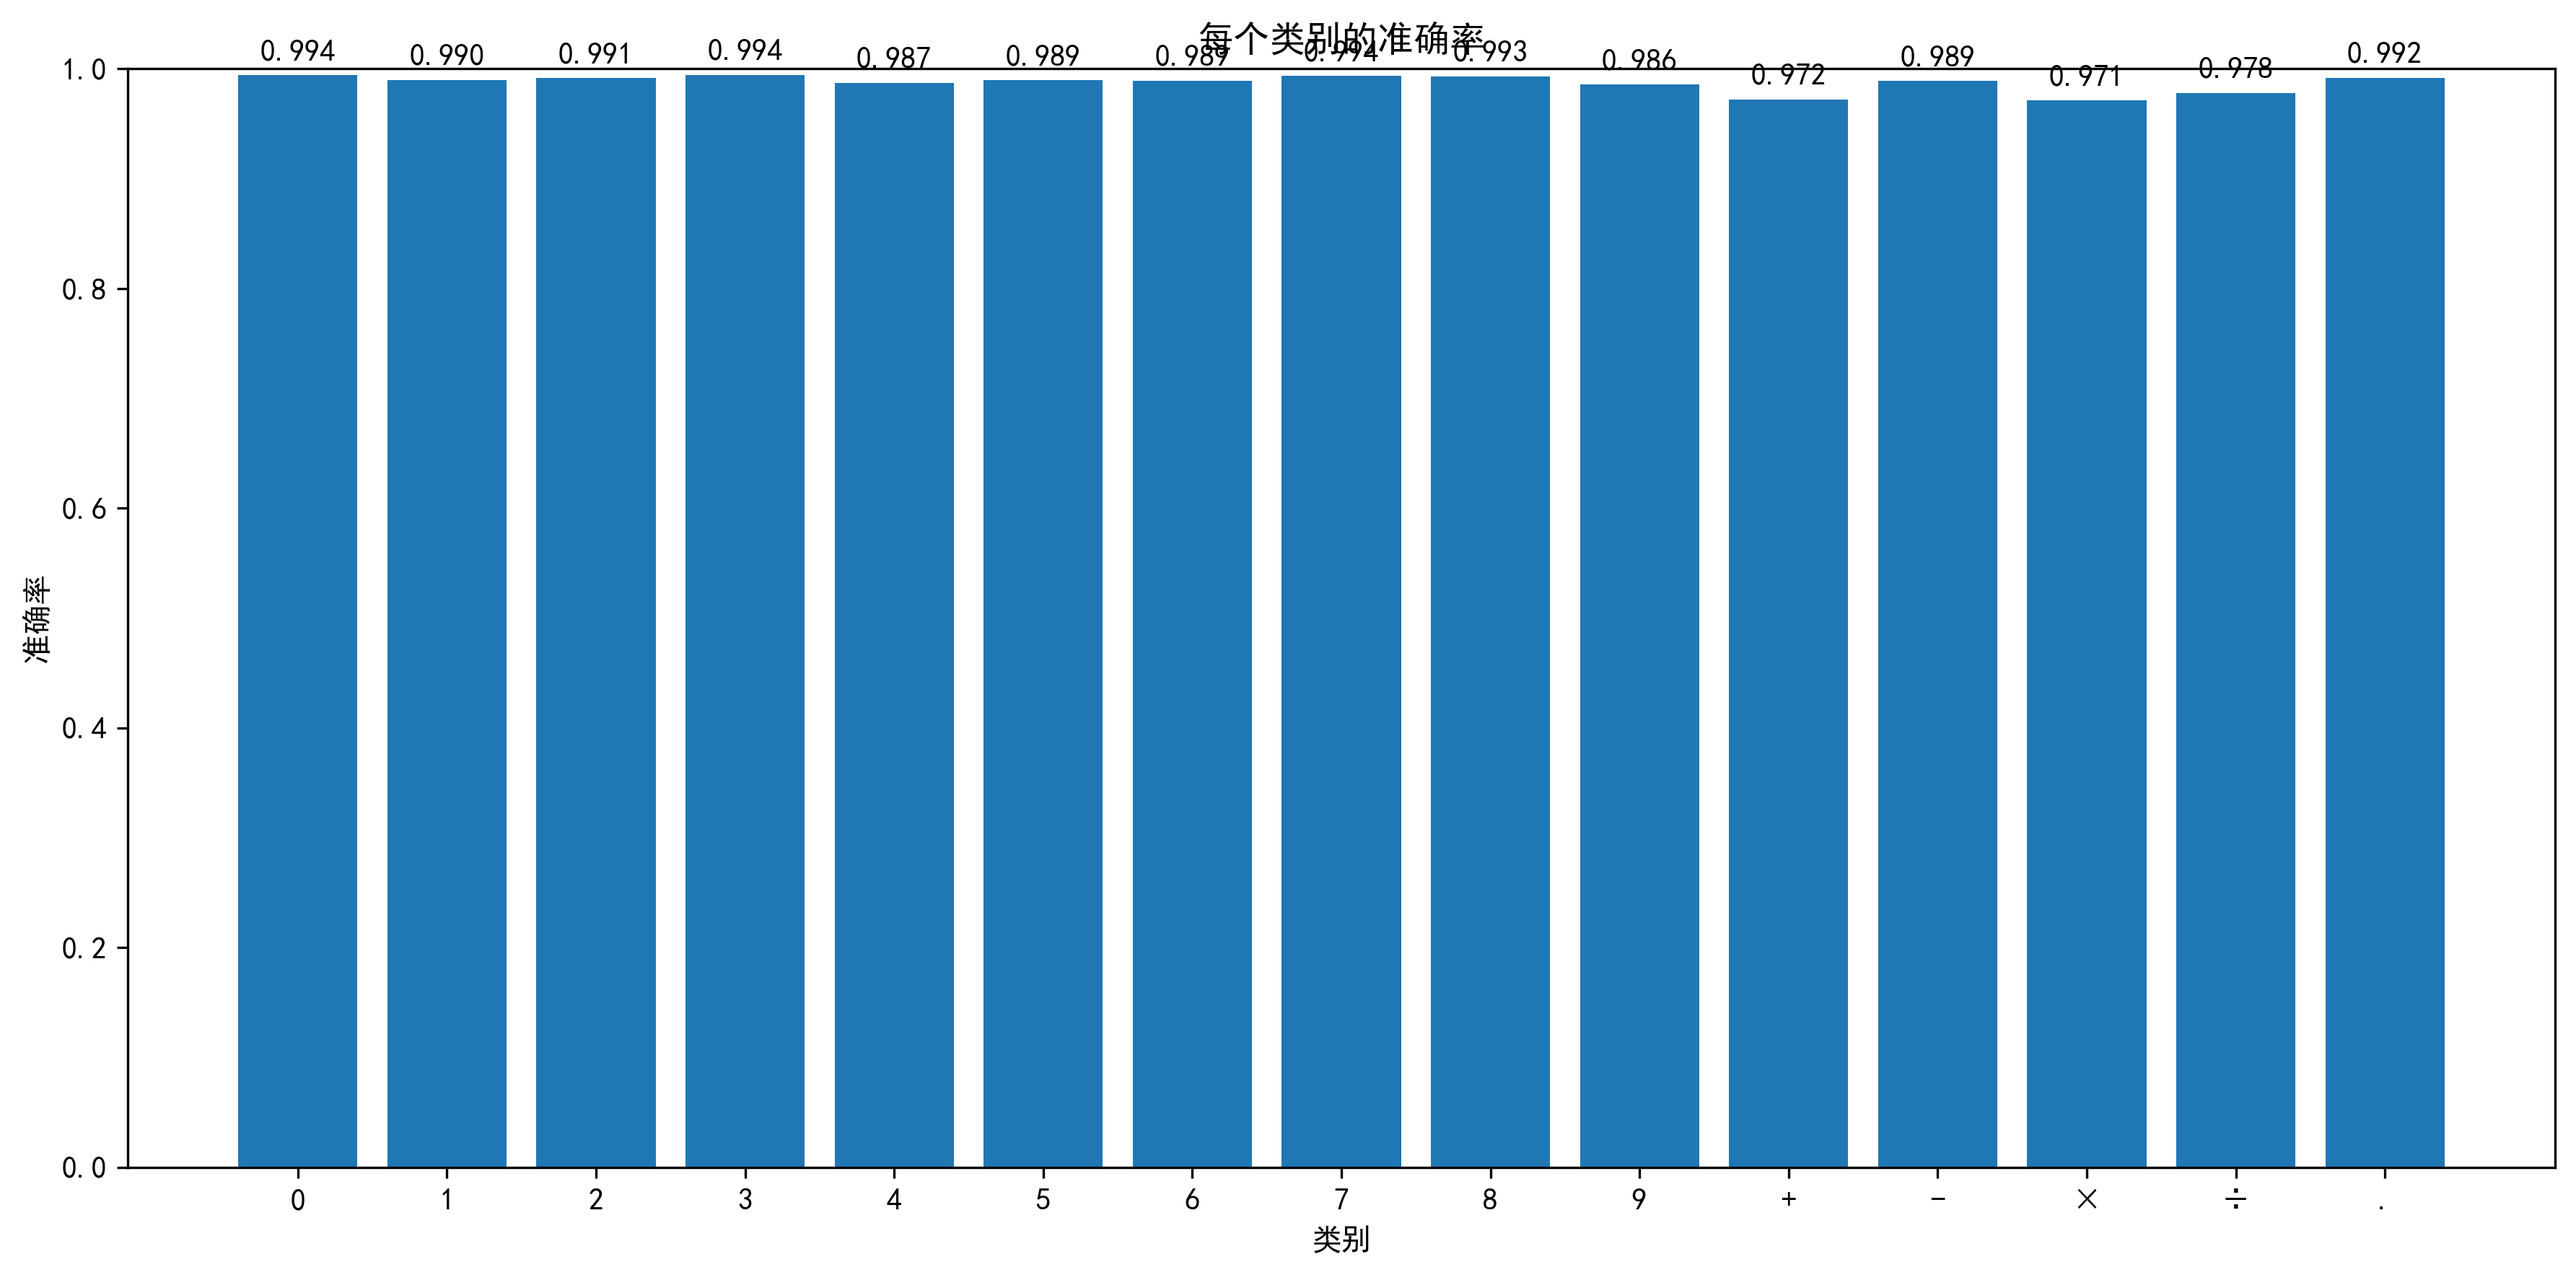
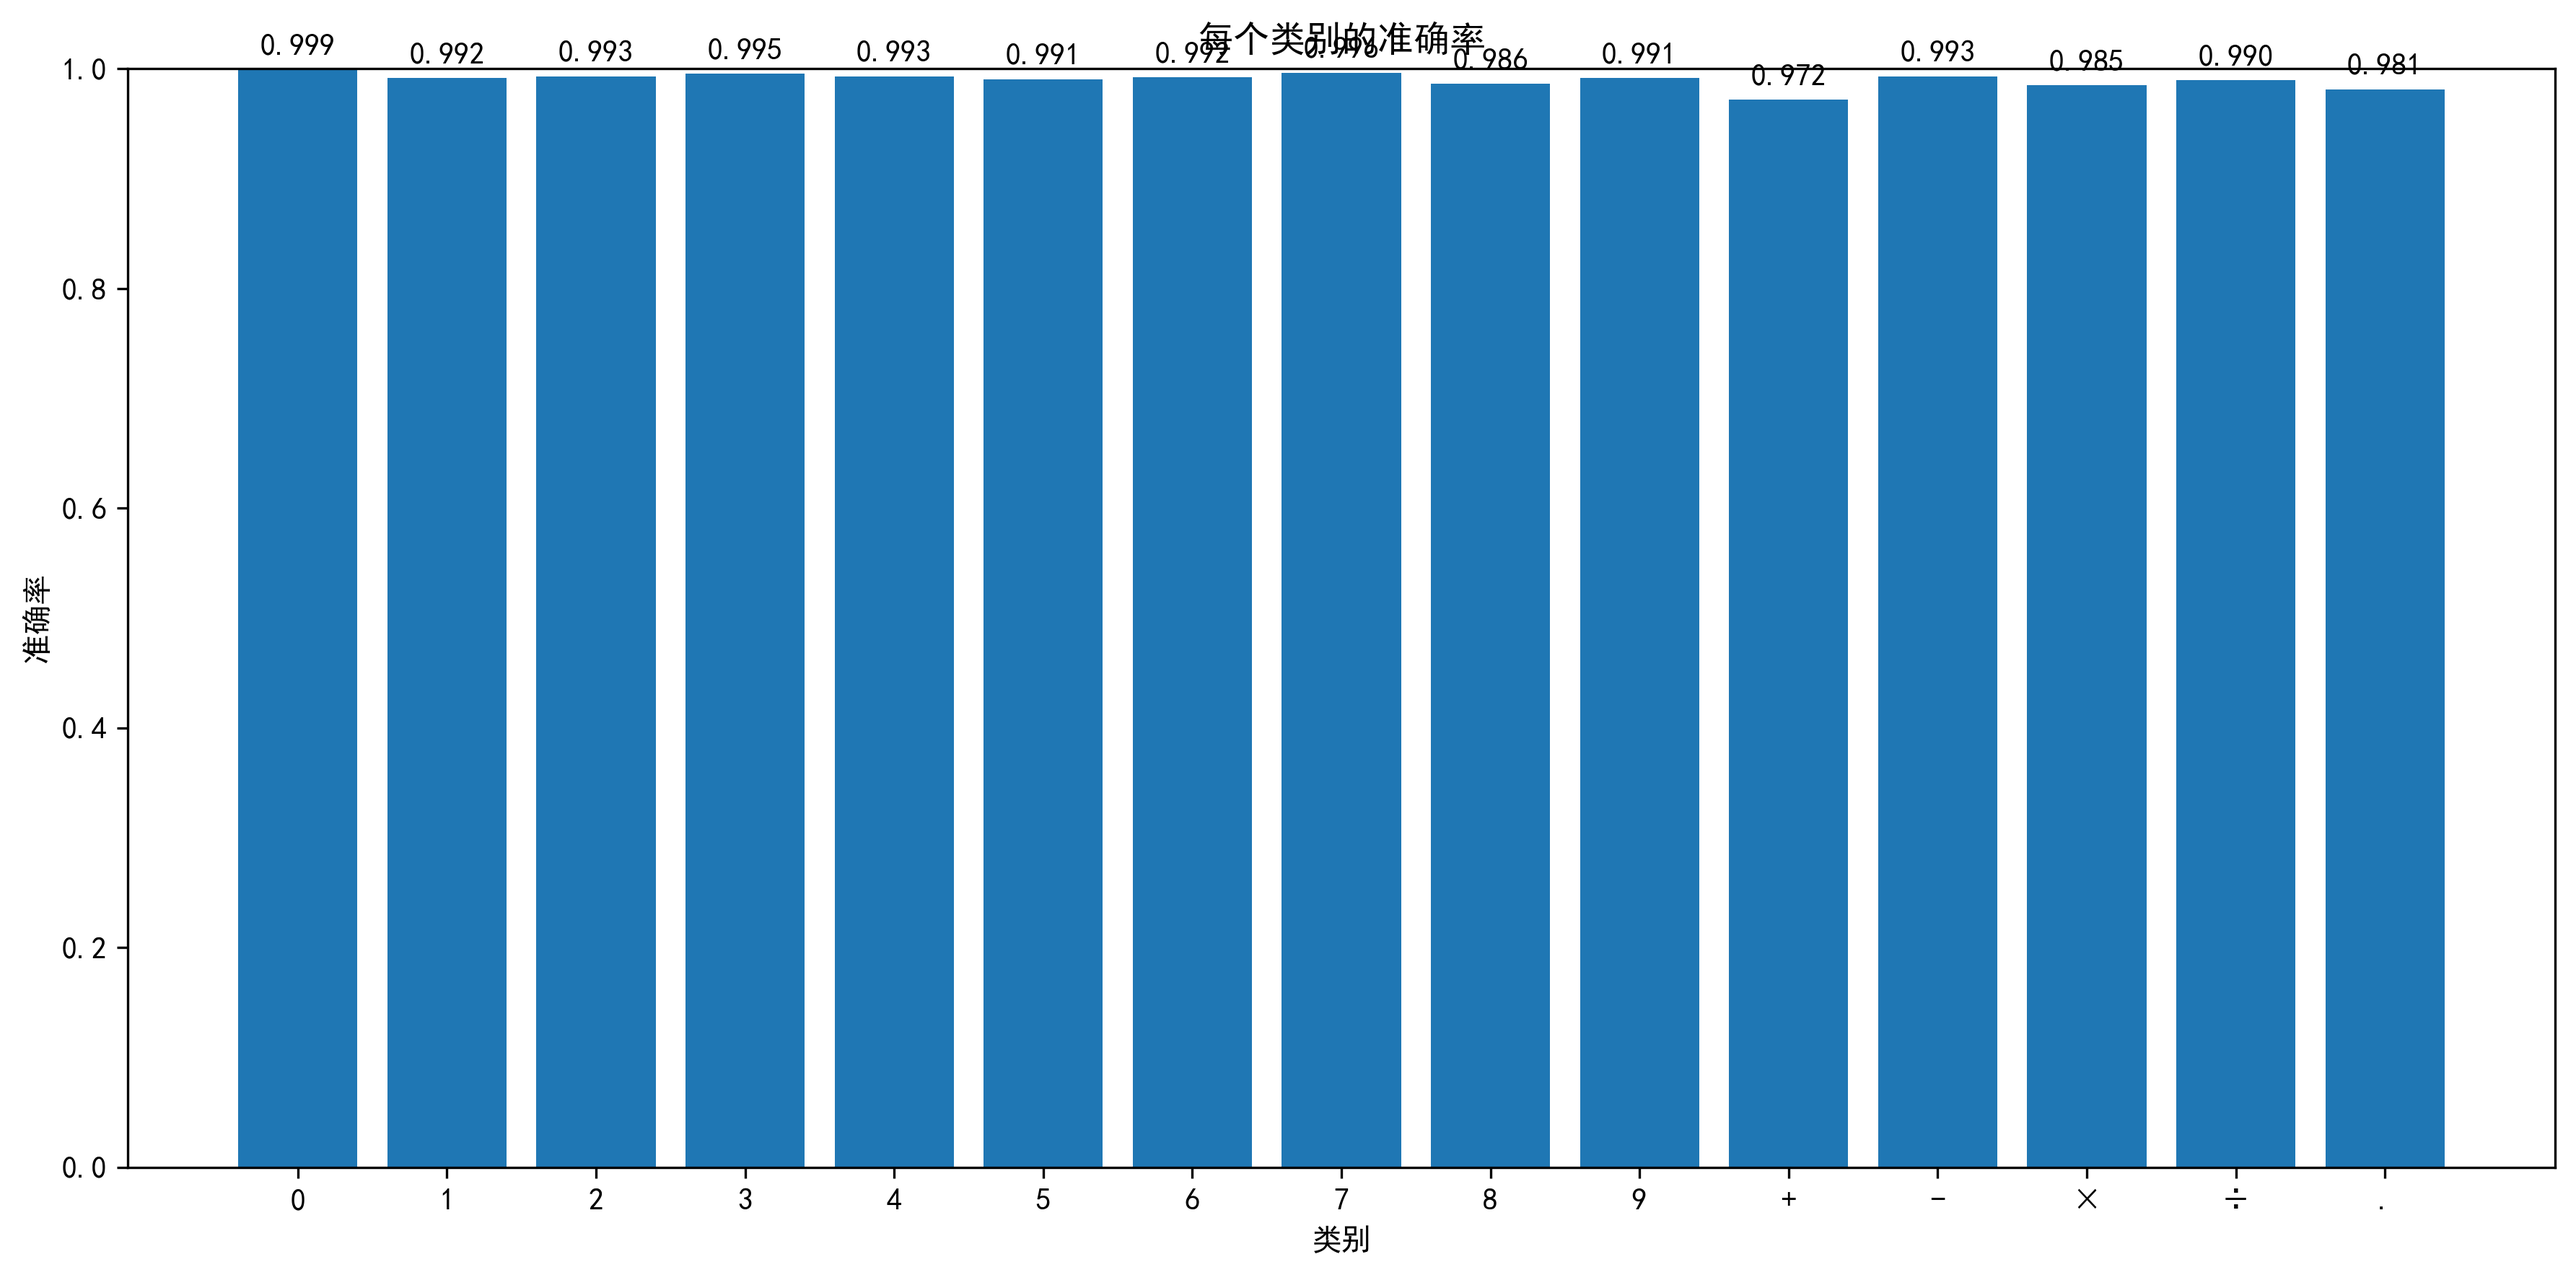
v8 解决了÷号问题

diff --git a/src/data/preprocessing.py b/src/data/preprocessing.py
@@ -80,7 +80,7 @@ def preprocess_image(image_input,source='canvas', normalize=False):
 
     processed_image = blurred_image
 
-    cv2.imshow("blurred_image", blurred_image)
+    # cv2.imshow("blurred_image", blurred_image)
 
     # 归一化到[0,1]范围
     if normalize:
@@ -111,30 +111,107 @@ def segment_symbols(preprocessed_image, min_contour_area=20, padding=2):
     contours, _ = cv2.findContours(gray, cv2.RETR_EXTERNAL, cv2.CHAIN_APPROX_SIMPLE)
 
     symbols = []
-
-    # 处理每个轮廓
+    # 过滤掉噪点
+    initial_boxes = []
     for contour in contours:
-        # 获取边界框
-        x, y, w, h = cv2.boundingRect(contour)
+        if cv2.contourArea(contour) > min_contour_area:
+            initial_boxes.append(cv2.boundingRect(contour))
 
-        # 过滤掉太小的轮廓（可能是噪点）
-        if w < 5 or h < 5 or cv2.contourArea(contour) < min_contour_area:
-            continue
-
-        # 提取符号图像
-        symbol_image = gray[y:y + h, x:x + w]
-
-        # 添加到结果列表，包含位置信息
+    # 步骤 2: 【核心】调用新的合并函数
+    final_boxes = merge_contours(initial_boxes)
+    # final_boxes = initial_boxes
+    # 步骤 3: 根据最终的边界框提取符号
+    symbols = []
+    for (x, y, w, h) in final_boxes:
+        symbol_image = preprocessed_image[y:y + h, x:x + w]
         symbols.append({
             'image': symbol_image,
             'position': (x, y, w, h),
             'normalized_image': normalize_symbol(symbol_image)
         })
-
+    # # 处理每个轮廓
+    # for contour in contours:
+    #     # 获取边界框
+    #     x, y, w, h = cv2.boundingRect(contour)
+    #
+    #     # 过滤掉太小的轮廓（可能是噪点）
+    #     if w < 5 or h < 5 or cv2.contourArea(contour) < min_contour_area:
+    #         continue
+    #
+    #     # 提取符号图像
+    #     symbol_image = gray[y:y + h, x:x + w]
+    #
+    #     # 添加到结果列表，包含位置信息
+    #     symbols.append({
+    #         'image': symbol_image,
+    #         'position': (x, y, w, h),
+    #         'normalized_image': normalize_symbol(symbol_image)
+    #     })
+    #
     # 按位置排序（从左到右）
     symbols.sort(key=lambda s: s['position'][0])
 
     return symbols
+
+
+def merge_contours(boxes, overlap_threshold=0.5):
+    """
+    【最终智能版】合并边界框。
+    仅当两个框在水平方向上有显著重叠时，才将它们合并。
+    """
+    if len(boxes) <= 1:
+        return boxes
+
+    merged = True
+    while merged:
+        merged = False
+        new_boxes = []
+        # 使用一个数组来标记哪些框已经被合并掉了
+        is_merged = [False] * len(boxes)
+
+        for i in range(len(boxes)):
+            if is_merged[i]:
+                continue
+
+            # 创建当前要合并的框
+            current_box = list(boxes[i])
+
+            for j in range(i + 1, len(boxes)):
+                if is_merged[j]:
+                    continue
+
+                next_box = boxes[j]
+
+                # --- 核心判断逻辑 ---
+                # 1. 计算两个框在水平方向上的重叠区域长度
+                x1_max = current_box[0] + current_box[2]
+                x2_max = next_box[0] + next_box[2]
+                overlap_x = max(0, min(x1_max, x2_max) - max(current_box[0], next_box[0]))
+
+                # 2. 只有当重叠长度大于任一框宽度的阈值时，才认为是垂直结构
+                min_width = min(current_box[2], next_box[2])
+                if overlap_x > min_width * overlap_threshold:
+                    # 合并两个框
+                    x_min = min(current_box[0], next_box[0])
+                    y_min = min(current_box[1], next_box[1])
+                    x_max = max(current_box[0] + current_box[2], next_box[0] + next_box[2])
+                    y_max = max(current_box[1] + current_box[3], next_box[1] + next_box[3])
+
+                    current_box = [x_min, y_min, x_max - x_min, y_max - y_min]
+
+                    # 标记 next_box 已被合并
+                    is_merged[j] = True
+                    merged = True  # 标记本轮发生了合并
+
+            new_boxes.append(tuple(current_box))
+
+        # 如果本轮发生了合并，就用合并后的新列表进行下一轮检查
+        if merged:
+            boxes = new_boxes
+
+    # 按x坐标排序，确保最终顺序正确
+    new_boxes.sort(key=lambda b: b[0])
+    return new_boxes
 
 
 def normalize_symbol(symbol_image, target_size=(28, 28)):

diff --git a/src/ui/app.py b/src/ui/app.py
@@ -400,33 +400,33 @@ class HandwrittenFormulaRecognitionApp:
             messagebox.showinfo("提示", "模型尚未加载完成，请稍候")
             return
 
-        image_to_process = None
+        image = None
         current_source = self.image_source
 
         if current_source == 'file':
-            image_to_process = self.original_image
+            image = self.original_image
         else:  # 如果是来自画布或未指定来源
             # 【新代码】从画布获取图像，并设置来源
-            image_to_process = self._get_image_from_canvas()  # 假设此函数返回一个numpy数组
+            image = self._get_image_from_canvas()  # 假设此函数返回一个numpy数组
             current_source = 'canvas'
 
-        if image_to_process is None:
+        if image is None:
             messagebox.showinfo("提示", "请先加载图像或在画布上绘制")
             return
 
         try:
             self.status_bar.config(text="正在识别公式...")
 
-            # 【核心修改】将图像来源作为参数传递给预处理函数
-            preprocessed_image = preprocess_image(
-                image_to_process,
-                source = current_source  # 传递我们新的状态变量
-            )
+            # # 【核心修改】将图像来源作为参数传递给预处理函数
+            # preprocessed_image = preprocess_image(
+            #     image,
+            #     source = current_source  # 传递我们新的状态变量
+            # )
             # 显示预处理后的图像
-            self._display_image(preprocessed_image)
+            # self._display_image(preprocessed_image)
 
             # 分割符号
-            symbols_list, processed_image = process_image(self.original_image,source=current_source)
+            symbols_list, processed_image = process_image(image,source=current_source)
 
             # 检查是否成功分割出符号
             if not symbols_list:

diff --git a/src/ui/canvas.py b/src/ui/canvas.py
@@ -179,27 +179,10 @@ def pil_to_mnist_format(pil_image):
         # 转换为numpy数组进行处理
         img_array = np.array(gray_image)
 
-        # 确保是白底黑字格式（背景255，前景0）
-        # 如果图像主要是黑色背景，需要反转
-        if np.mean(img_array) < 127:  # 如果平均像素值偏暗，说明可能是黑底
-            img_array = 255 - img_array  # 反转为白底黑字
 
-        # 二值化处理：将白底黑字转换为清晰的二值图像
-        # 使用自适应阈值获得更好的效果
-        binary = cv2.adaptiveThreshold(
-            img_array, 255,
-            cv2.ADAPTIVE_THRESH_GAUSSIAN_C,
-            cv2.THRESH_BINARY, 11, 2
-        )
-
-        # 现在binary是白底黑字（背景255，前景0）
         # 需要转换为MNIST格式（黑底白字：背景0，前景255）
-        mnist_format = 255 - binary  # 反转：黑底白字
+        mnist_format = 255 - img_array  # 反转：黑底白字
 
-        # 应用形态学操作去除噪点
-        kernel = np.ones((2, 2), np.uint8)
-        mnist_format = cv2.morphologyEx(mnist_format, cv2.MORPH_OPEN, kernel)
-        mnist_format = cv2.morphologyEx(mnist_format, cv2.MORPH_CLOSE, kernel)
 
         # 转换回PIL图像
         return Image.fromarray(mnist_format, mode='L')

diff --git a/src/models/symbol_recognizer.py b/src/models/symbol_recognizer.py
@@ -76,24 +76,7 @@ class SymbolRecognizer(nn.Module):
             nn.Dropout(0.3),
             nn.Linear(128, num_classes)
         )
-        
-        # 权重初始化
-        # self._initialize_weights()
-        
-    # def _initialize_weights(self):
-    #     """初始化模型权重"""
-    #     for m in self.modules():
-    #         if isinstance(m, nn.Conv2d):
-    #             nn.init.kaiming_normal_(m.weight, mode='fan_out', nonlinearity='relu')
-    #             if m.bias is not None:
-    #                 nn.init.constant_(m.bias, 0)
-    #         elif isinstance(m, nn.BatchNorm2d):
-    #             nn.init.constant_(m.weight, 1)
-    #             nn.init.constant_(m.bias, 0)
-    #         elif isinstance(m, nn.Linear):
-    #             nn.init.normal_(m.weight, 0, 0.01)
-    #             nn.init.constant_(m.bias, 0)
-    
+
     def forward(self, x):
         # 初始特征提取
         x = self.initial(x)  # Nx1x28x28 -> Nx32x28x28
